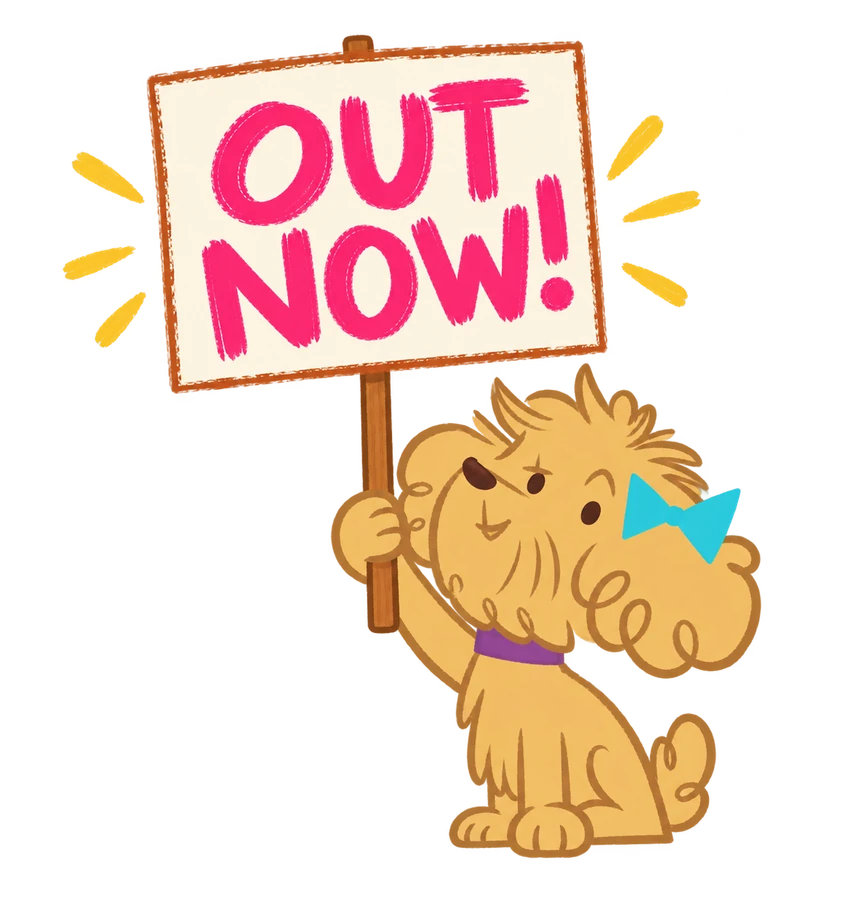
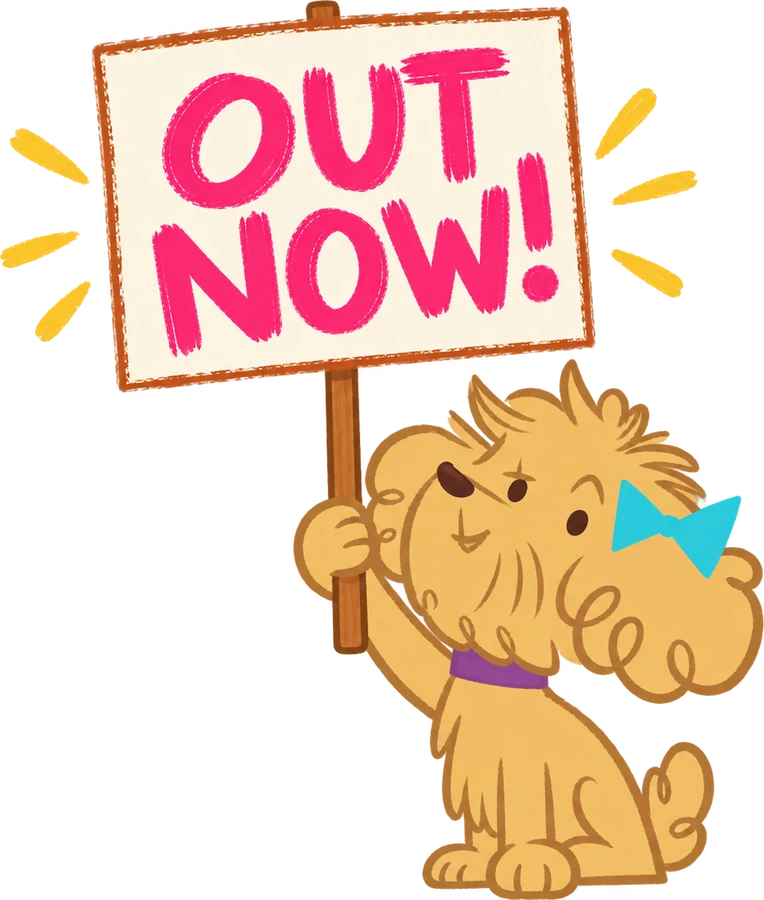
Stand the Out Now pup on a painted rooftop at every size
Pup now lives in a box that mirrors the cover-fitted nightscape, so he
can be pinned to the art itself: the right-hand roof on desktop, the
brick roof beside the Fairy on phones. Tall portrait heroes, which crop
that roof away, keep him in the top-right sky. The pup image is trimmed
to its paws so he stands on the roofline rather than above it.

diff --git a/css/site.css b/css/site.css
@@ -237,6 +237,7 @@ input {
 }
 .hero {
   position: relative;
+  container-type: size;
   height: calc(100svh - var(--nav) - 16px);
   min-height: 650px;
   color: white;
@@ -299,14 +300,41 @@ input {
   margin-top: 16px;
   font-weight: 500;
 }
+/* Same box as the cover-fitted nightscape, so Pup can stand on a painted roof. */
+.hero-scene {
+  position: absolute;
+  left: 50%;
+  top: 50%;
+  width: max(100cqw, 150cqh);
+  aspect-ratio: 3 / 2;
+  transform: translate(-50%, -50%);
+  pointer-events: none;
+}
 .hero-pup {
   position: absolute;
-  top: 2%;
-  right: 3%;
+  /* Paws on the right-hand roof (x 1446–1504, y 463 of the 1536×1024 art). */
+  left: 87.6%;
+  bottom: 54.8%;
   width: auto;
-  height: 34%;
-  z-index: 1;
+  height: 21%;
   filter: drop-shadow(0 12px 18px #05285955);
+}
+/* Tall heroes crop that roof out of view; keep Pup in the sky instead. */
+@container (aspect-ratio < 1.35) {
+  .hero-scene {
+    top: 0;
+    width: min(1560px, 92%);
+    height: calc(100% - 86px);
+    aspect-ratio: auto;
+    transform: translateX(-50%);
+  }
+  .hero-pup {
+    left: auto;
+    right: 3%;
+    top: 2%;
+    bottom: auto;
+    height: 34%;
+  }
 }
 .hero-fairy {
   position: absolute;
@@ -1065,11 +1093,22 @@ footer {
     bottom: 29%;
     object-position: center;
   }
+  /* Phones crop the art at 57% (see .hero-city), so the scene box follows. */
+  .hero-scene {
+    left: calc((100cqw - max(100cqw, 150cqh)) * 0.57);
+    top: 50%;
+    width: max(100cqw, 150cqh);
+    height: auto;
+    aspect-ratio: 3 / 2;
+    transform: translateY(-50%);
+  }
+  /* Paws on the brick roof beside the Fairy (x ≈ 1040, y 514 of the art). */
   .hero-pup {
+    left: 60.5%;
+    right: auto;
     top: auto;
-    right: 0;
-    bottom: 33%;
-    height: 21%;
+    bottom: 49.8%;
+    height: 18%;
   }
   .hero-caption {
     left: 6%;

diff --git a/index.html b/index.html
@@ -176,6 +176,15 @@
           alt=""
           fetchpriority="high"
         />
+        <div class="hero-scene">
+          <img
+            class="hero-pup"
+            src="assets/pup-sign.webp"
+            width="764"
+            height="900"
+            alt="Pup holding an “Out now!” sign"
+          />
+        </div>
         <div class="hero-poster">
           <h1 id="hero-title">
             <span class="sr-only"
@@ -197,13 +206,6 @@
               A rhyming picture book for the whole family
             </p>
           </div>
-          <img
-            class="hero-pup"
-            src="assets/pup-sign.webp"
-            width="864"
-            height="900"
-            alt="Pup holding an “Out now!” sign"
-          />
           <img
             class="hero-fairy"
             src="assets/fairy-flying.webp"
